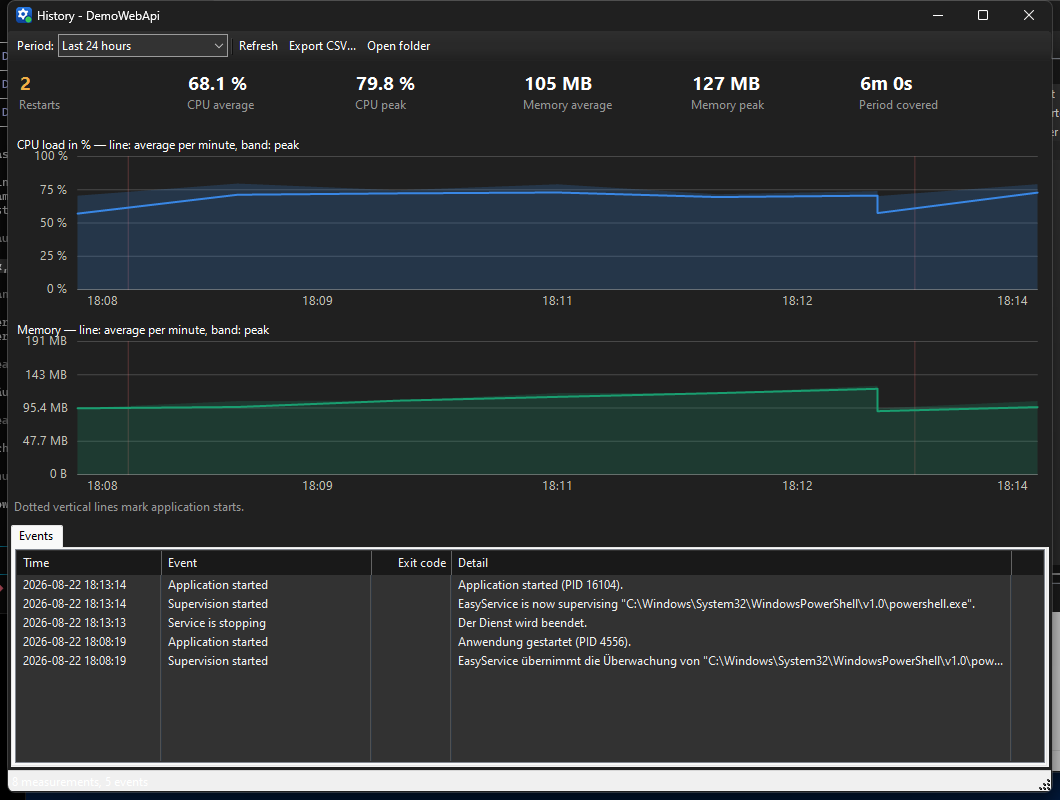
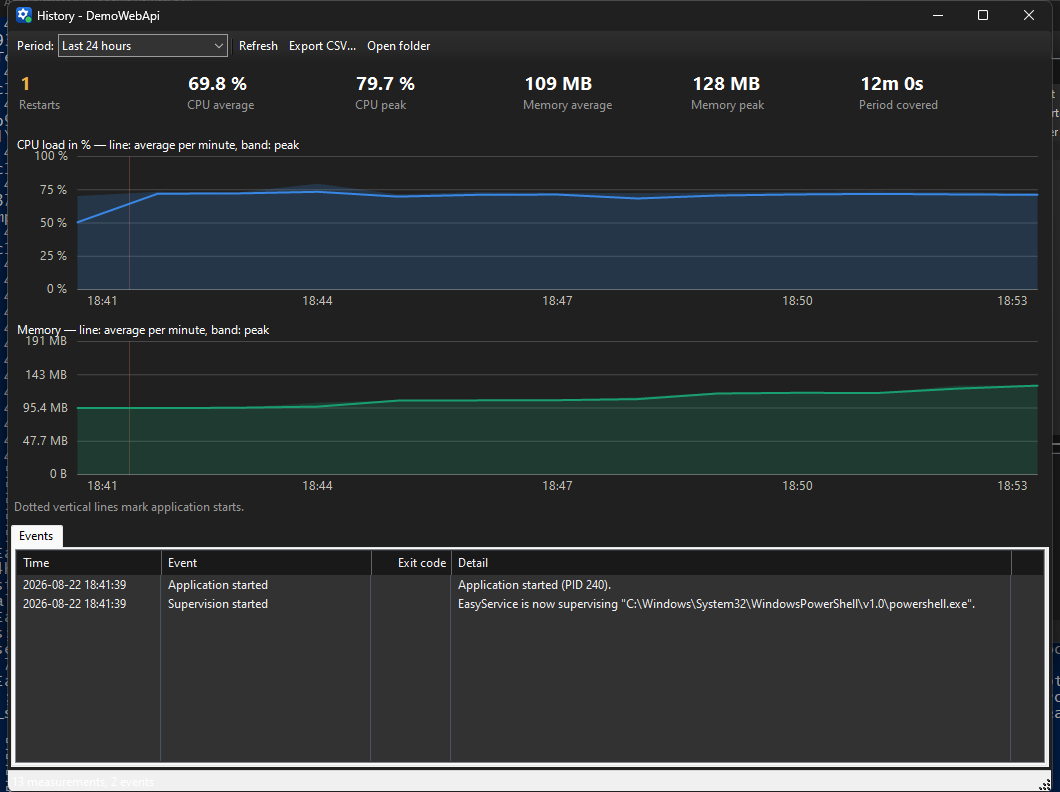
Neue Screenshots, dunkler Modus auch in den uebrigen Fenstern
Die Bilder zeigen den aktuellen Stand: Zustandssymbole statt reiner Farbe,
Vorschau mit mitlaufendem Protokoll unter der Liste, Sortieranzeige, und einen
Dienst, der laeuft und trotzdem kritisch ist, weil sein Health-Check nicht
mehr antwortet. Genau der Fall, den Windows allein nicht sieht.

Ui.FollowTheme jetzt auch im Verlaufsfenster, in der Schnelleinrichtung und im
Editor - sonst bleiben dort dieselben hellen Loecher wie zuvor im Hauptfenster.

Die Bilder sind um acht Zeilen beschnitten: GetWindowRect liefert unter Windows
11 den unsichtbaren Rahmen mit, darunter schaut sonst hervor, was hinter dem
Fenster lag.

Claude-Session: https://claude.ai/code/session_01CmNnWUW3xNZXX2PBBoZYwA

diff --git a/src/EasyService/Gui/HistoryForm.cs b/src/EasyService/Gui/HistoryForm.cs
@@ -127,7 +127,7 @@ public sealed class HistoryForm : Form
         Controls.Add(statusStrip);
 
         _refresh.Tick += (_, _) => Reload();
-        Load += (_, _) => { Reload(); _refresh.Start(); };
+        Load += (_, _) => { Ui.FollowTheme(this); Reload(); _refresh.Start(); };
         FormClosed += (_, _) => _refresh.Stop();
     }
 

diff --git a/src/EasyService/Gui/ServiceEditorForm.cs b/src/EasyService/Gui/ServiceEditorForm.cs
@@ -825,6 +825,7 @@ internal sealed class ServicePickerDialog : Form
 
         Load += (_, _) =>
         {
+            Ui.FollowTheme(this);
             try { _all = ServiceRegistry.EnumerateServices(); }
             catch (Exception e) { Ui.ShowError(this, S.Main_Err_ListFailed, e); }
             Populate();

diff --git a/src/EasyService/Gui/QuickAddForm.cs b/src/EasyService/Gui/QuickAddForm.cs
@@ -129,6 +129,7 @@ public sealed class QuickAddForm : Form
                 _application.Text = files[0];
         };
 
+        Load += (_, _) => Ui.FollowTheme(this);
         Shown += (_, _) => _application.Focus();
     }
 
